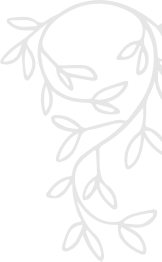
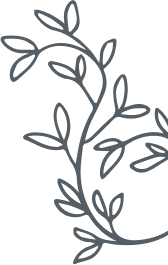
Add: section Hero and adaptive

Changed region(s): [[0.0, 0.0, 1.0, 1.0], [0.8025, 0.7939, 0.9877, 0.855], [0.7099, 0.1832, 0.8025, 0.2443]]

diff --git a/src/scss/home.scss b/src/scss/home.scss
@@ -1,3 +1,153 @@
 //====================================================================================================
+.page {
+
+  // .page__hero
+
+  &__hero {}
+}
 
 //====================================================================================================
+
+.hero {
+  overflow: hidden;
+  background-color: $dark5Color;
+  position: relative;
+
+  // .hero__container
+  &__container {
+    display: flex;
+    align-items: center;
+    justify-content: space-between;
+    column-gap: toRem(30);
+    padding-block-start: toRem(80);
+    padding-block-end: toRem(60);
+    // position: relative;
+    // z-index: 1;
+
+    @media (max-width:$tablet) {
+      padding-block-start: toRem(50);
+      padding-block-end: toRem(40);
+      flex-direction: column;
+      row-gap: toRem(45);
+    }
+  }
+
+  // .hero__content
+  &__content {
+    max-inline-size: toRem(690);
+    inline-size: 100%;
+  }
+
+  // .hero__title
+  &__title {
+    &:not(:last-child) {
+      margin-block-end: toRem(52);
+    }
+
+    @media (max-width:$tablet) {
+      &:not(:last-child) {
+        margin-block-end: toRem(40);
+      }
+    }
+
+  }
+
+  // .hero__text
+  &__text {
+    font-family: 'Roboto', sans-serif;
+    font-size: toRem(30);
+    line-height: 1.833333;
+    /* 55/30 */
+    text-transform: capitalize;
+
+    &:not(:last-child) {
+      margin-block-end: toRem(66);
+    }
+
+    @media (max-width:$tablet) {
+      &:not(:last-child) {
+        margin-block-end: toRem(40);
+        line-height: 1.4;
+      }
+    }
+
+    @media (max-width: toEm(600)) {
+      font-size: toRem(25);
+      line-height: 1.4;
+    }
+  }
+
+  // .hero__button
+  &__button {
+    &:not(:last-child) {
+      margin-block-end: toRem(52);
+    }
+
+    @media (max-width:$tablet) {
+      inline-size: 100%;
+    }
+  }
+
+  // .hero__column-image
+  &__column-image {
+    padding: toRem(20) 0 0 toRem(18);
+    display: flex;
+    align-self: center;
+    margin: 0 auto;
+  }
+
+  // .hero__image-wripper
+  &__image-wripper {
+    border-radius: toRem(160) 0;
+    border: toRem(2) solid $dark50Color;
+    inset-block-end: toEm(20);
+    inline-size: 100%;
+    aspect-ratio: 424 / 542;
+  }
+
+  // .hero__image
+  &__image {
+    inline-size: 100%;
+    aspect-ratio: 424 / 542;
+    object-fit: cover;
+    border-radius: toRem(160) 0;
+    overflow: hidden;
+    margin: toRem(-20) 0 0 toRem(-18);
+  }
+
+  // .hero__frame-left
+  &__frame-left {
+    position: absolute;
+    inset-block-end: 4.978663%;
+    inset-inline-start: 0;
+    inline-size: 22.5%;
+    /* 432/1920 */
+    block-size: 24.893314%;
+    /* 175/703 */
+    aspect-ratio: 15 / 29;
+    object-fit: contain;
+    color: $bgBlackColor;
+    z-index: -1;
+
+    @media (max-width: toEm(694)) {
+      display: none;
+    }
+  }
+
+  // .hero__frame-right
+  &__frame-right {
+    position: absolute;
+    inset-block-end: 26.742532%;
+    inset-inline-end: -1.71875%;
+    inline-size: 10.15625%;
+    block-size: 37.268848%;
+    aspect-ratio: 195 / 262;
+    object-fit: contain;
+    color: $bgBlackColor;
+    z-index: -1;
+
+    @media (max-width: toEm(600)) {
+      display: none;
+    }
+  }
+}

diff --git a/src/home.html b/src/home.html
@@ -8,11 +8,31 @@
 	<div class="wrapper">
 		@@include('html/_header.htm',{})
 		<main class="page">
-			<div class="page__text _icon-s-twitter">
-				<p>
-					Lorem ipsum dolor sit amet consectetur adipisicing elit. Magni debitis iusto deleniti consequuntur. Quaerat culpa sequi enim quidem dignissimos eos tenetur illo veniam provident optio? Nostrum sequi minima cumque? Fugit!
-				</p>
-			</div>
+			<section class="page__hero hero">
+				<div class="hero__container">
+					<div class="hero__content">
+						<h1 class="hero__title title">Collections</h1>
+						<div class="hero__text">
+							<p>
+								you can explore ans shop many differnt collection
+								from various barands here.
+							</p>
+						</div>
+						<button class="hero__button button" type="button">
+							<span class="button__icon _icon-cart"></span>
+							<span class="button__text">shop now</span>
+						</button>
+					</div>
+					<a href="#" class="hero__column-image">
+						<div class="hero__image-wripper">
+							<img class="hero__image ibg" src="@img/hero/hero.jfif" alt="Image women in white clothes">
+						</div>
+					</a>
+				</div>
+				<img class="hero__frame-left" src="@img/hero/flower_01.png" alt="Фонове зображення гілочки сірого кольору ліворуч">
+				<img class="hero__frame-right" src="@img/hero/flower_02.png" alt="Фонове зображення гілочки сірого кольору праворуч">
+			</section>
+
 		</main>
 		@@include('html/_footer.htm',{})
 	</div>

diff --git a/src/scss/common.scss b/src/scss/common.scss
@@ -1,6 +1,6 @@
 // Заголовки, загальні БЕМ блоки та інше...
 
-// Logo
+//===Logo
 .logo {
   font-family: 'AmstelvarAlpha', serif;
   font-size: toRem(28);
@@ -27,12 +27,31 @@
   }
 }
 
+//===Title
+.title {
+  font-family: "Roboto", sans-serif;
+  font-size: toRem(74);
+  font-weight: 300;
+  line-height: 0.743243;
+  /* 55/74 */
+  text-transform: capitalize;
+
+  @media (max-width: toEm(600)) {
+    font-size: toRem(60);
+    line-height: 0.916667;
+    /* 55/60 */
+  }
+}
+
 //===Button
 .button {
   display: inline-flex;
+  flex-shrink: 1;
   align-items: center;
+  justify-content: center;
   column-gap: toRem(8);
   padding: toRem(19) toRem(26);
+  background-color: $bgBlackColor;
   color: $whiteColor;
   transition: color 0.4s;
 
@@ -118,6 +137,7 @@
   &__body {
     position: relative;
 
+
     @media (any-hover: hover) {
       &:hover {
         .info-row {
@@ -138,6 +158,7 @@
     block-size: 100%;
     aspect-ratio: 312 / 400;
     overflow: hidden;
+    box-shadow: 0 toRem(4) toRem(4) rgba(0, 0, 0, 0.25);
   }
 
   // .item-product__image

diff --git a/src/scss/style.scss b/src/scss/style.scss
@@ -29,7 +29,7 @@ $bgBlackColor: #1E2832;
 $whiteColor: #ffffff;
 $dark10Color: #00000003;
 $dark75Color: #1E2832BF;
-$dark50Color: #1e283280;
+$dark50Color: rgba(0, 0, 0, 0.25);
 $dark5Color: #1e28320d;
 $strokeColor: #E3E3E3;
 // Палітра кольорів

diff --git a/src/scss/base/menu.scss b/src/scss/base/menu.scss
@@ -20,8 +20,9 @@
 			top: 0;
 			overflow: auto;
 			padding: toRem(84) toRem(15) toRem(15) toRem(30);
-			background-color: #fff;
-			transition: left 0.3s;
+			background-color: $whiteColor;
+			transition: left 0.8s;
+			z-index: 1;
 
 
 			&::before {
